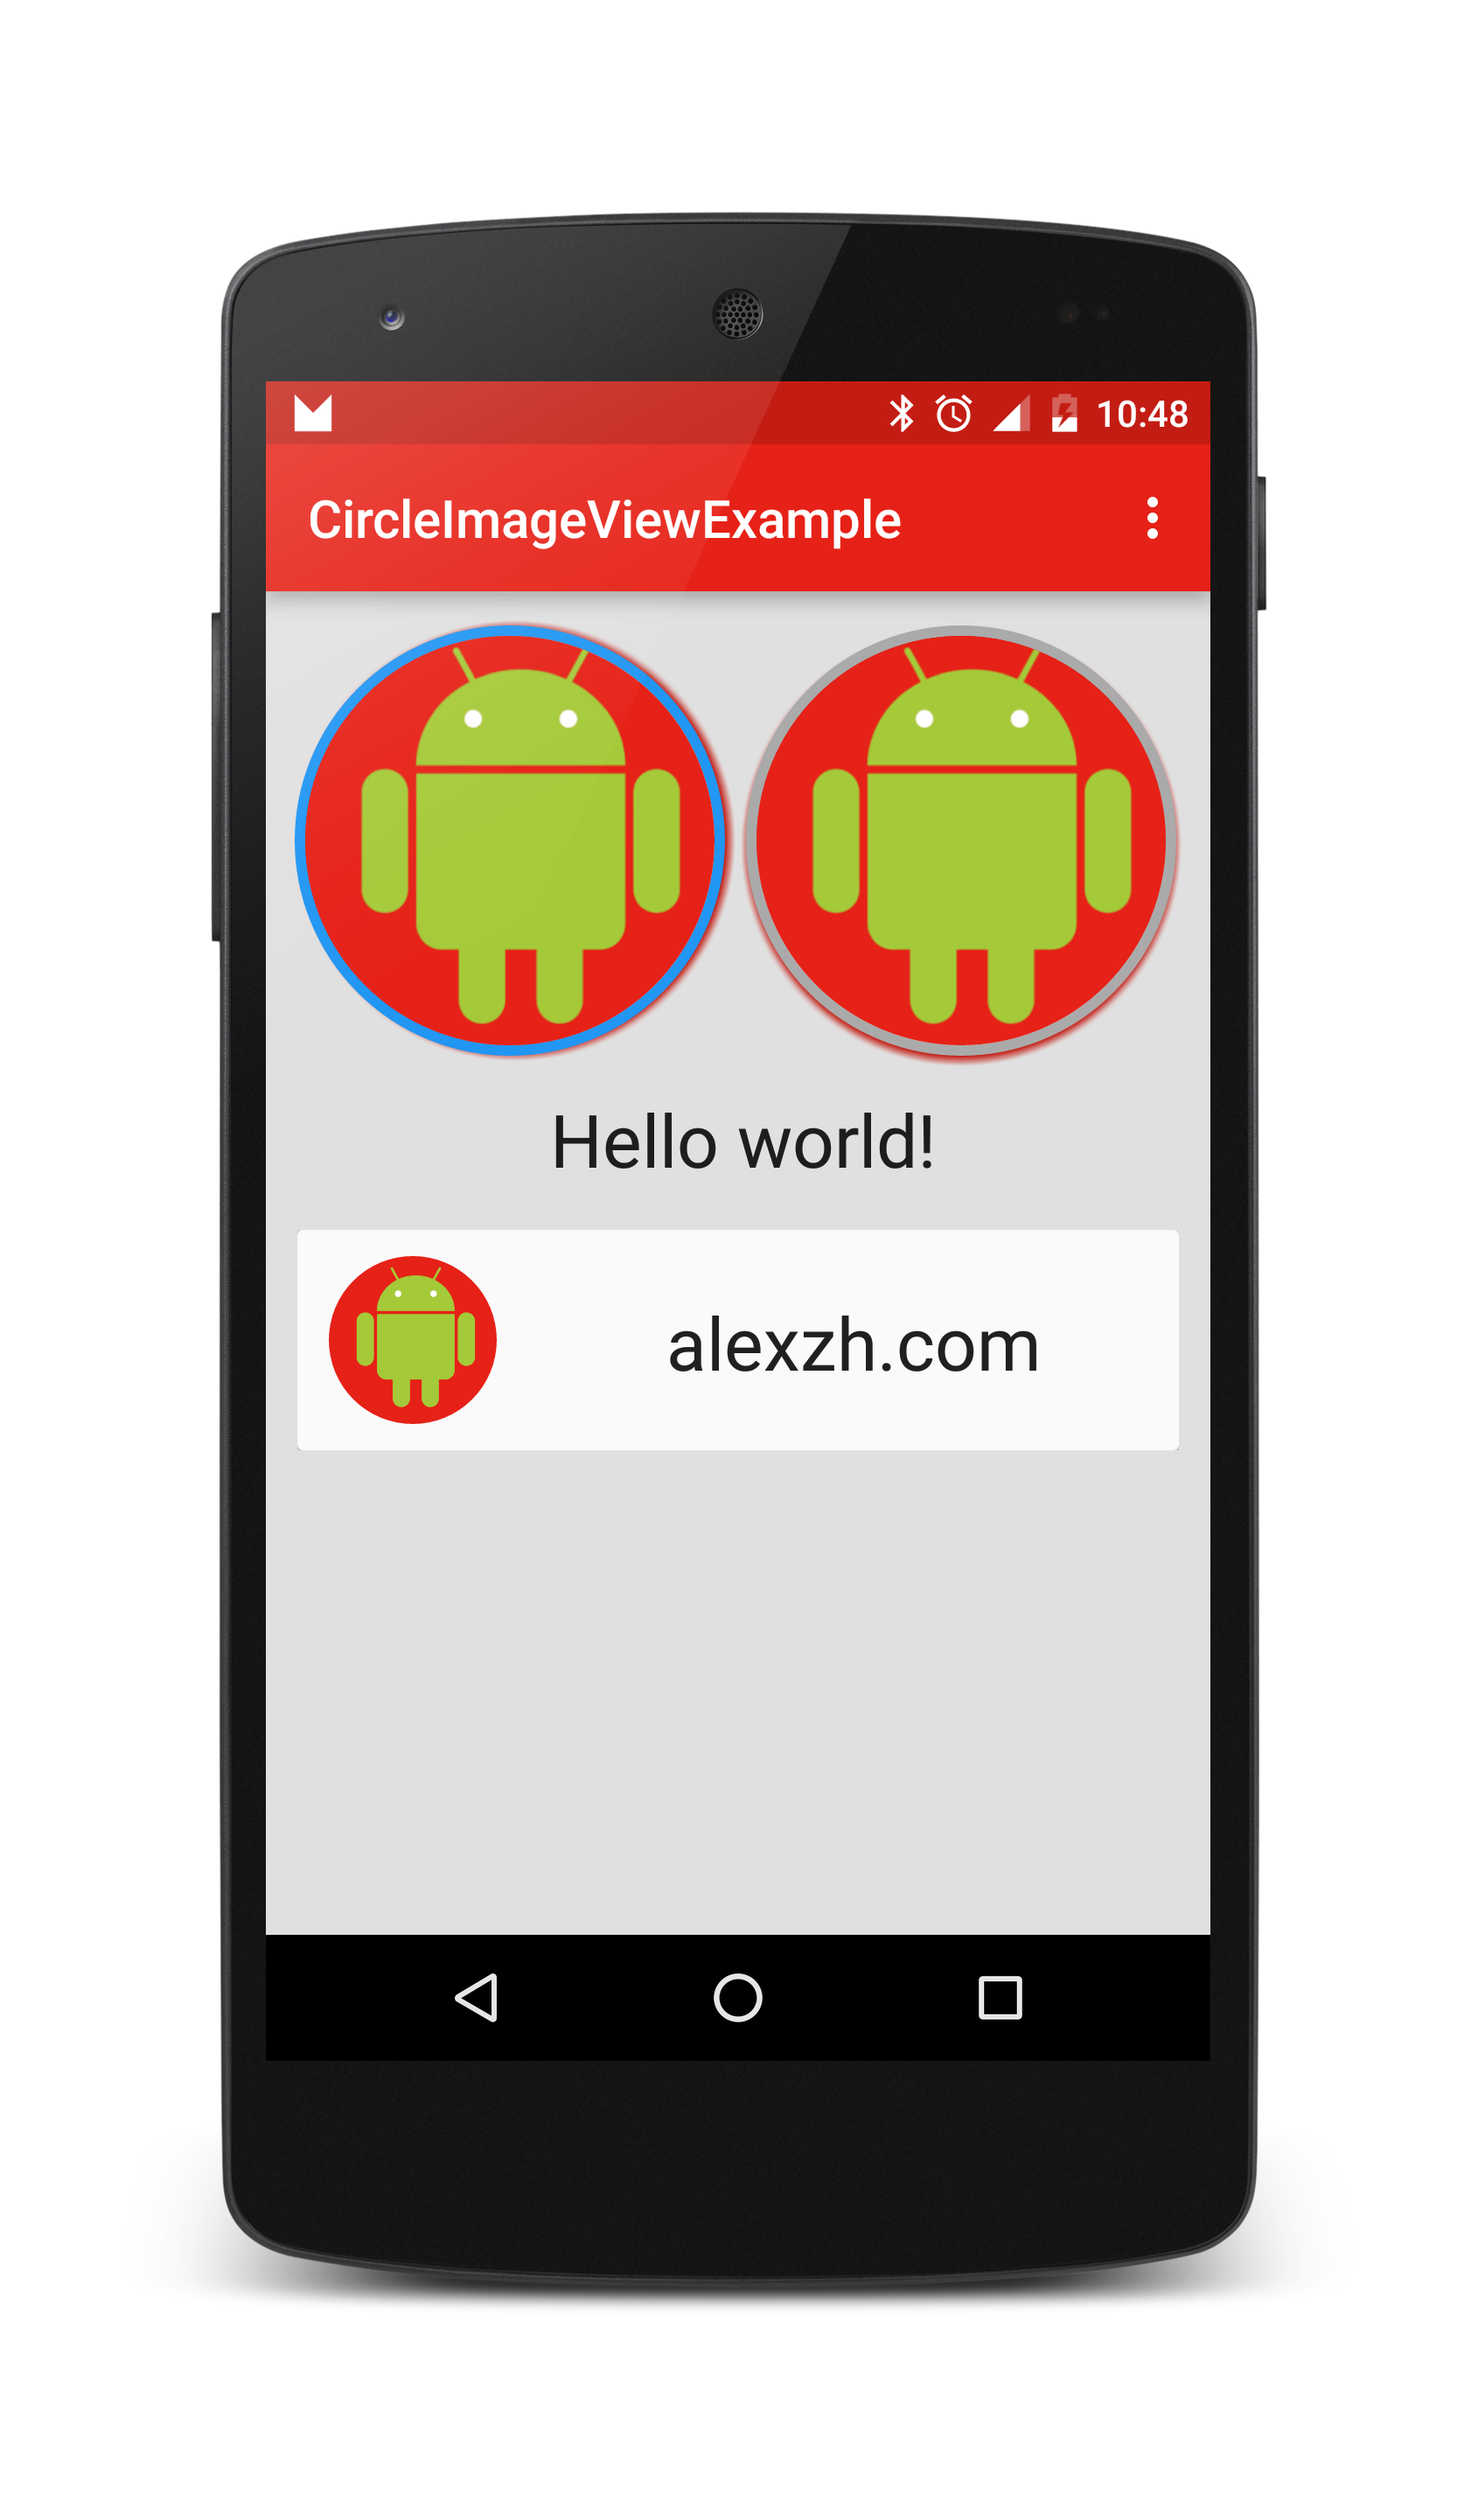
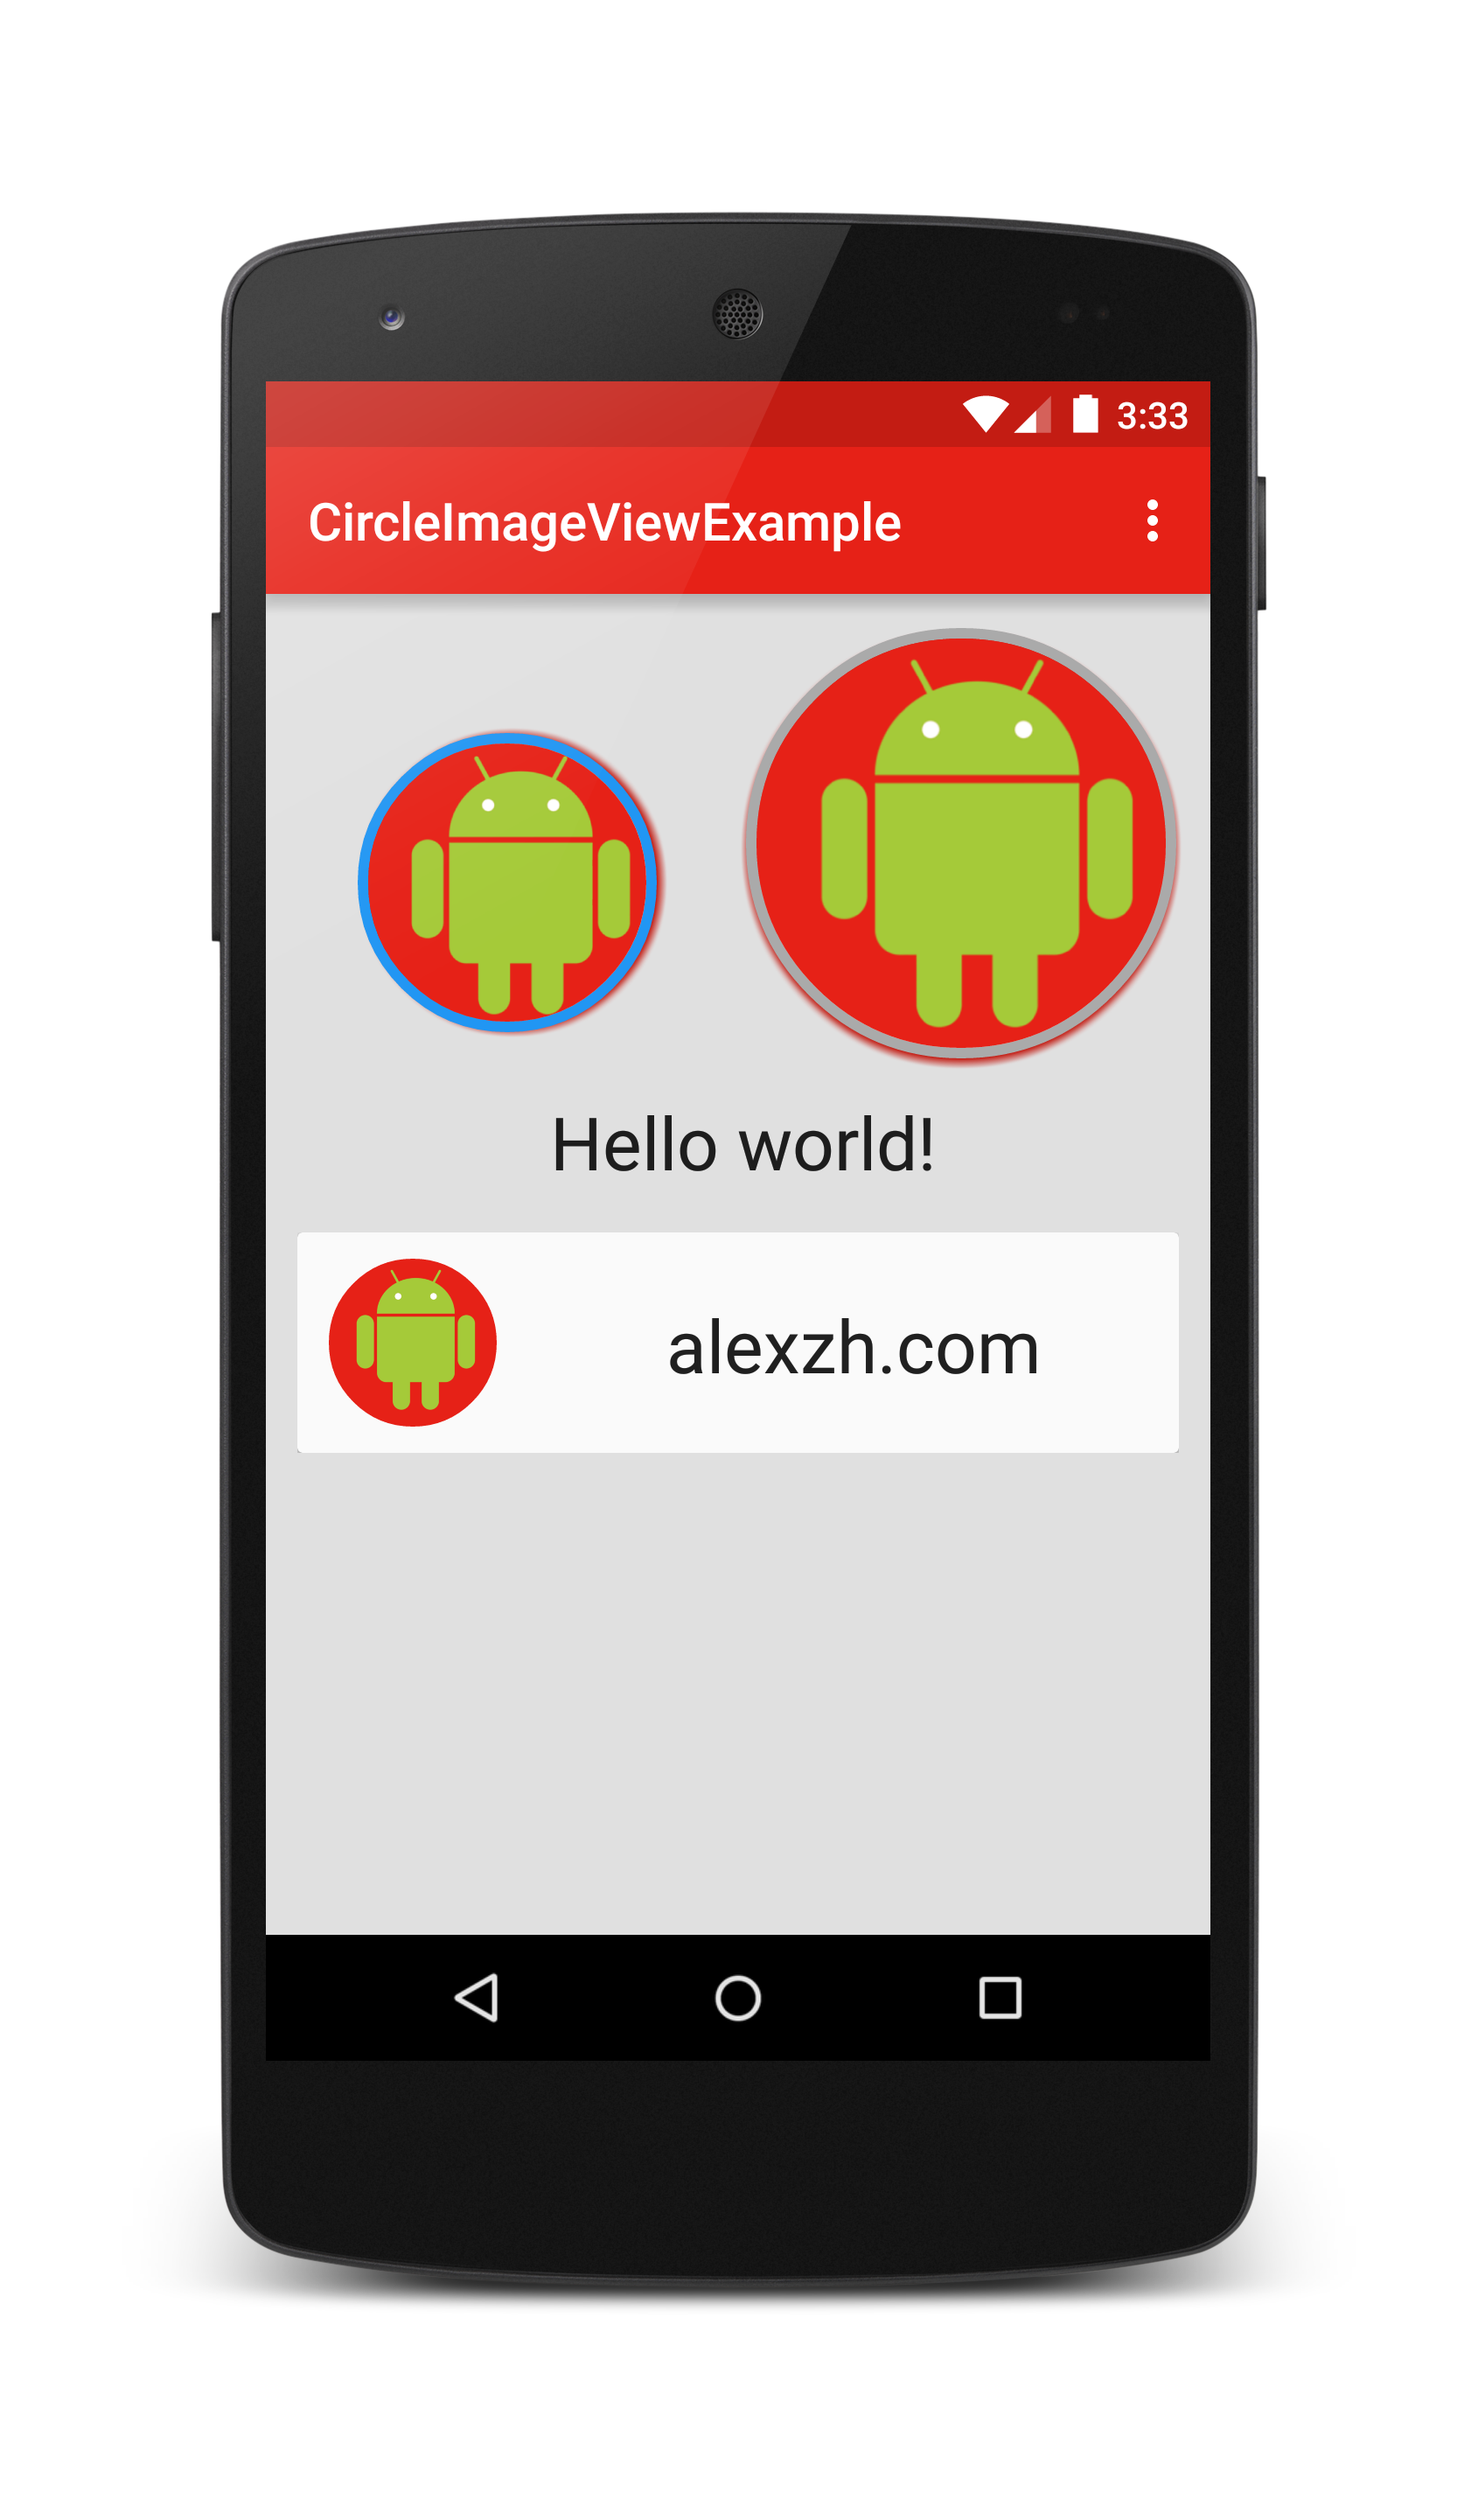
Add support padding parameters.

diff --git a/circleimageview/src/main/java/com/alexzh/circleimageview/CircleImageView.java b/circleimageview/src/main/java/com/alexzh/circleimageview/CircleImageView.java
@@ -43,12 +43,19 @@ public class CircleImageView extends ImageView {
     private float mShadowDy;
     private float mShadowRadius;
     private int mShadowColor;
+    private int mPaddingLeft;
+    private int mPaddingTop;
+    private int mPaddingRight;
+    private int mPaddingBottom;
+
+    private float mMeasuredWidth;
+    private float mMeasuredHeight;
+    private float mMinCanvasSide;
 
     private Paint mImagePaint;
     private Paint mBorderPaint;
     private Paint mBackgroundPaint;
     private Bitmap mImage;
-    private int mMinCanvasSide;
     private BitmapShader mBitmapShader;
 
     private ItemSelectedListener mListener;
@@ -83,6 +90,11 @@ public class CircleImageView extends ImageView {
         TypedArray attributes = context.obtainStyledAttributes(attrs, R.styleable.CircleImageView, defStyle, 0);
         int backgroundColor = attributes.getColor(R.styleable.CircleImageView_view_backgroundColor,
                 context.getResources().getColor(android.R.color.transparent));
+
+        mPaddingLeft = getPaddingLeft();
+        mPaddingRight = getPaddingRight();
+        mPaddingTop = getPaddingTop();
+        mPaddingBottom = getPaddingBottom();
 
         mBorderWidth = attributes.getDimension(R.styleable.CircleImageView_view_borderWidth, BORDER_WIDTH);
         mShadowRadius = attributes.getDimension(R.styleable.CircleImageView_view_shadowRadius, SHADOW_RADIUS);
@@ -130,17 +142,27 @@ public class CircleImageView extends ImageView {
         else
             maxShadowValue = mShadowDx;
 
-        int oldCanvasSize = mMinCanvasSide;
-        mMinCanvasSide = getMeasuredWidth() < getMeasuredHeight() ? getMeasuredWidth() : getMeasuredHeight();
+        mMeasuredWidth = (getMeasuredWidth() - mPaddingLeft - mPaddingRight);
+        mMeasuredHeight = (getMeasuredHeight() - mPaddingTop - mPaddingBottom);
+
+        float oldCanvasSize = mMinCanvasSide;
+        mMinCanvasSide = mMeasuredWidth < mMeasuredHeight ? mMeasuredWidth : mMeasuredHeight;
 
         if (oldCanvasSize != mMinCanvasSide)
             updateBitmapShader();
 
         mImagePaint.setShader(mBitmapShader);
 
-        centerX = (this.getMeasuredWidth() - maxShadowValue) / 2;
-        centerY = (this.getMeasuredHeight() - maxShadowValue) / 2;
-        radius = (mMinCanvasSide / 2) - mBorderWidth - maxShadowValue - mShadowRadius;
+        centerX = ((mMeasuredWidth - maxShadowValue) / 2.0f) + mPaddingLeft;
+        centerY = ((mMeasuredHeight - maxShadowValue) / 2.0f) + mPaddingTop;
+
+        if (mMeasuredHeight > mMeasuredWidth) {
+            centerY -= (mMeasuredHeight - mMeasuredWidth) / 2.0f;
+        } else if (mMeasuredWidth > mMeasuredHeight) {
+            centerX -= (mMeasuredWidth - mMeasuredHeight) / 2.0f;
+        }
+
+        radius = (mMinCanvasSide / 2.0f) - mBorderWidth - maxShadowValue - mShadowRadius;
 
         /* draw border */
         if (mHasBorder) {
@@ -165,12 +187,18 @@ public class CircleImageView extends ImageView {
         canvas.drawCircle(centerX, centerY, radius, mImagePaint);
     }
 
-    private RectF getBorderRectF(float minShadowValue) {
-        return new RectF(
-                ((0 + mBorderWidth + mShadowRadius) / 2) + minShadowValue,
-                ((0 + mBorderWidth + mShadowRadius) / 2) + minShadowValue,
-                ((mMinCanvasSide - (mBorderWidth - mShadowRadius) / 2)) - minShadowValue,
-                ((mMinCanvasSide - (mBorderWidth - mShadowRadius) / 2)) - minShadowValue);
+    private RectF getBorderRectF(float maxShadowValue) {
+        float left = ((0 + mBorderWidth + mShadowRadius) / 2) + maxShadowValue;
+        float top = ((0 + mBorderWidth + mShadowRadius) / 2) + maxShadowValue;
+        float right = ((mMinCanvasSide - (mBorderWidth - mShadowRadius) / 2)) - maxShadowValue;
+        float bottom = ((mMinCanvasSide - (mBorderWidth - mShadowRadius) / 2)) - maxShadowValue;
+
+        left += mPaddingLeft;
+        top += mPaddingTop;
+        right += mPaddingLeft;
+        bottom += mPaddingTop;
+
+        return new RectF(left, top, right, bottom);
     }
 
     @Override
@@ -195,7 +223,7 @@ public class CircleImageView extends ImageView {
     }
 
     /**
-     * Draw shadow for image or boder
+     * Draw shadow for image or border
      */
     private void drawShadow() {
         if (mHasBorder)
@@ -315,15 +343,22 @@ public class CircleImageView extends ImageView {
      * the Circle upon drawing.
      */
     public void updateBitmapShader() {
+        float scale;
+
         if (mImage == null)
             return;
 
         mBitmapShader = new BitmapShader(mImage, Shader.TileMode.CLAMP, Shader.TileMode.CLAMP);
-
         if(mMinCanvasSide != mImage.getWidth() || mMinCanvasSide != mImage.getHeight()) {
             Matrix matrix = new Matrix();
-            float scale = (float) mMinCanvasSide / (float) mImage.getWidth();
+
+            if (mMeasuredHeight > mMeasuredWidth)
+                scale = (mMeasuredWidth - mBorderWidth) / mImage.getHeight();
+            else
+                scale = (mMeasuredHeight - mBorderWidth) / mImage.getWidth();
+
             matrix.setScale(scale, scale);
+            matrix.postTranslate(mPaddingLeft + mBorderWidth, mPaddingTop + mBorderWidth);
             mBitmapShader.setLocalMatrix(matrix);
         }
     }
